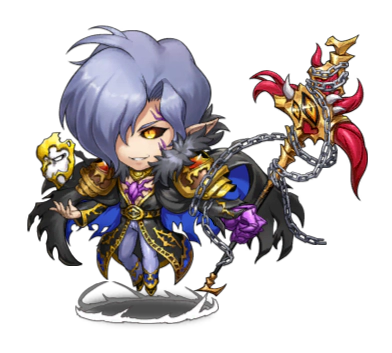
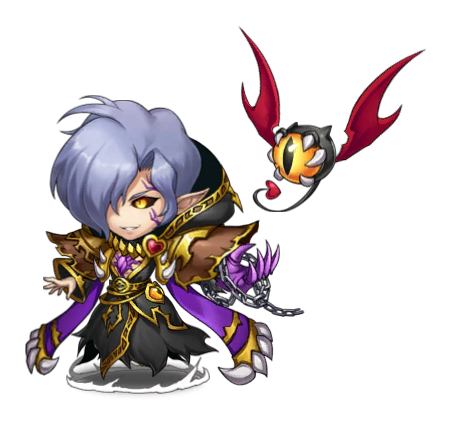
빈센트, 크루거 클래스명 변경 및 크루거 sd 파일명 변경

diff --git a/hero/data/빈센트.js b/hero/data/빈센트.js
@@ -89,7 +89,7 @@
   ],
   "Jobs": [
     {
-      "Name": "비취 수정 대장",
+      "Name": "비취 수정 기사단장",
       "Icon": "Icon_Occupation_Fly.webp",
       "SD": [
         {
@@ -175,7 +175,7 @@
   },
   "ClassUp": [
     {
-      "ClassTitle": "강철 날개 전사 : 공격+9, 기술+4",
+      "ClassTitle": "강익 전사 : 공격+9, 기술+4",
       "Tiers": [
         {
           "Name": "T1",
@@ -192,7 +192,7 @@
       ]
     },
     {
-      "ClassTitle": "악마 수정 날개 : 생명+48, 공격+12",
+      "ClassTitle": "마수정의 낭인 : 생명+48, 공격+12",
       "Tiers": [
         {
           "Name": "T1",
@@ -264,7 +264,7 @@
       ]
     },
     {
-      "ClassTitle": "강철 날개 용사 : 생명+48, 기술+8",
+      "ClassTitle": "아이언 엔젤 : 생명+48, 기술+8",
       "Tiers": [
         {
           "Name": "T1",
@@ -295,7 +295,7 @@
       ]
     },
     {
-      "ClassTitle": "비취 수정 대장 : 생명+90, 공격+25, 마방+10",
+      "ClassTitle": "비취 수정 기사단장 : 생명+90, 공격+25, 마방+10",
       "Tiers": [
         {
           "Name": "T1",
@@ -575,11 +575,11 @@
     },
     {
       "Entry": "「전투 - 전직2」",
-      "Desc": "지켜보는게 좋을것이다! 고통을 초월하는 이 힘을!"
+      "Desc": "지켜보는게 좋을것이다! 고통을 초월한 이 힘을!"
     },
     {
       "Entry": "「전투 - 스킬시전1」",
-      "Desc": "하늘을 가로막고 허공을 뒤덮으리라!"
+      "Desc": "태양을 가리고, 하늘을 덮는다!"
     },
     {
       "Entry": "「전투 - 스킬시전2」",
@@ -587,7 +587,7 @@
     },
     {
       "Entry": "「전투 - 선택1」",
-      "Desc": "그럼, 어찌 할거지? 지휘관님?"
+      "Desc": "그럼, 어찌 할거지? 지휘관 나리?"
     },
     {
       "Entry": "「전투 - 선택2」",
@@ -599,15 +599,15 @@
     },
     {
       "Entry": "「대화 - 친밀도1」",
-      "Desc": "날아다니는 것에 익숙해지면 땅 위에 서 있는게 바보같아 보이지... 그렇지 않나?"
+      "Desc": "날아다니는 것에 익숙해지면, 지면을 밟고 있는게 바보같아 보이지... 그렇지 않나?"
     },
     {
       "Entry": "「대화 - 친밀도2」",
-      "Desc":"힘을 원해 싸우고... 어리석은 역사는 되풀이된다.<br/> 하지만, 우리들은 그래도 이 절망의 길을 나아가야만 한다... 영원히... <br/>영원히..."
+      "Desc":"힘을 손에 넣기 위한 싸움... 어리석은 역사는 되풀이된다.<br/> 하지만, 우리들은 그래도 이 절망의 길을 나아가야만 한다... <br/>영원히..."
     },
     {
       "Entry": "「대화 - 친밀도3」",
-      "Desc": "아하하... 삶과 파멸 무엇을 택할것인가냐고? <br/>물론 파멸을 택하지"
+      "Desc": "아하하하! 생존과 파멸 둘 중에 고르라고? <br/>물론 파멸을 택하지 않겠는가?"
     },
     {
       "Entry": "「대화 - 친밀도4」",
@@ -619,7 +619,7 @@
     },
     {
       "Entry": "「대화 - 일상1」",
-      "Desc": "이 날개가 마음에 든 모양이군? <br/>하지만 이것을 얻기 위해서 내가 얼마만큼의 것을 잃었는지는 상상도 할 수 없겠지..."
+      "Desc": "이 날개가 마음에 든 모양이군? <br/>하지만 이것을 얻기 위해서 내가 얼마나 많은 것을 잃었는지는 상상도 할 수 없겠지."
     },
     {
       "Entry": "「대화 - 기쁨」",
@@ -627,7 +627,7 @@
     },
     {
       "Entry": "「대화 - 분노」",
-      "Desc": "매튜녀석... 악마와 거래를 하다니 정말 어리석군! 앞으로 어떤 어둠이 기다리고 있는지도 모르고서..."
+      "Desc": "매튜녀석... 악마와 거래를 하다니 정말 어리석기 짝이 없군! 앞으로 어떤 어둠이 기다리고 있는지도 모르고..."
     },
     {
       "Entry": "「대화 - 슬픔」",

diff --git a/hero/data/크루거.js b/hero/data/크루거.js
@@ -83,7 +83,7 @@
   ],
   "Jobs": [
     {
-      "Name": "분열된 마음의 마법사",
+      "Name": "디스페어 메이지",
       "Icon": "Icon_Occupation_Magician.webp",
       "SD": [
         {
@@ -109,7 +109,7 @@
       "Skill": 87,
       "SkillRate": 25,
       "HeartFetterBouns1": "<b>원거리 공격을 받아</b> <br/>전투 진입시 받는 물리피해 <font color=\"red\">-10</font>%",
-      "HeartFetterBouns2": "<b>부대 생명력이 <font color=\"red\">-70</font>% 이하시</b>,<br/> 주는 피해량 <font color=\"red\">+10</font>%"
+      "HeartFetterBouns2": "<b>부대 생명력이 <font color=\"red\">70</font>% 이상 일시</b>,<br/> 주는 피해량 <font color=\"red\">+10</font>%"
     },
     {
       "Name": "사신",
@@ -186,7 +186,7 @@
       ]
     },
     {
-      "ClassTitle": "음모의 마법사 : 생명+48, 지력+12",
+      "ClassTitle": "바이스 메이지 : 생명+48, 지력+12",
       "Tiers": [
         {
           "Name": "T1",
@@ -217,7 +217,7 @@
       ]
     },
     {
-      "ClassTitle": "분열된 마음의 마법사 : 생명+90, 지력+25, 마방+10",
+      "ClassTitle": "디스페어 메이지 : 생명+90, 지력+25, 마방+10",
       "Tiers": [
         {
           "Name": "T1",
@@ -640,7 +640,7 @@
     },
     {
       "Entry": "「전투 - 스킬시전2」",
-      "Desc": "이것이 신의 힘이다!"
+      "Desc": "이것이 신의 힘!"
     },
     {
       "Entry": "「전투 - 선택1」",
@@ -656,11 +656,11 @@
     },
     {
       "Entry": "「대화 - 친밀도1」",
-      "Desc": "한편 이냐고? 훗 설마... <br/>그런 쓸모 없는 녀석과는 진작에 갈라섰지"
+      "Desc": "아직도 같이 있냐고? 훗 설마... <br/>그런 쓸모 없는 녀석과는 진작에 갈라섰지"
     },
     {
       "Entry": "「대화 - 친밀도2」",
-      "Desc":"네놈의 목숨은 이미 없고, 그 이름은 잊혀져, 네놈이 이룩한 것 또한 무로 돌렸다...<br/>자! 네놈의 모든 것을 새로운 신에게 바치거라!"
+      "Desc":"네놈의 목숨은 이미 사라지고, 그 이름은 잊혀져, 네놈이 이룩한 것 또한 무로 돌렸다...<br/>자! 네놈의 모든 것을 새로운 신에게 바치거라!"
     },
     {
       "Entry": "「대화 - 친밀도3」",

diff --git a/hero/data/토와.js b/hero/data/토와.js
@@ -655,11 +655,11 @@
     },
     {
       "Entry": "「대화 - 친밀도1」",
-      "Desc": "[토와] : 무슨 용건이라도? <br/>[사와] : 용건이 없으면 저리가라는 것이다, 챠하하"
+      "Desc": "[토와] : 무슨 용건이라도? <br/>[시타] : 용건이 없으면 저리가라는 것이다, 챠하하"
     },
     {
       "Entry": "「대화 - 친밀도2」",
-      "Desc": "[토와] : 『인생에 꿈이 있는것이 아니라, 꿈이 인생을을 만든다.』라...<br/> 훌륭한 마음가짐이다. "
+      "Desc": "[토와] : 『인생에 꿈이 있는것이 아니라, 꿈이 인생을 만든다.』라...<br/> 훌륭한 마음가짐이다. "
     },
     {
       "Entry": "「대화 - 친밀도3」",
